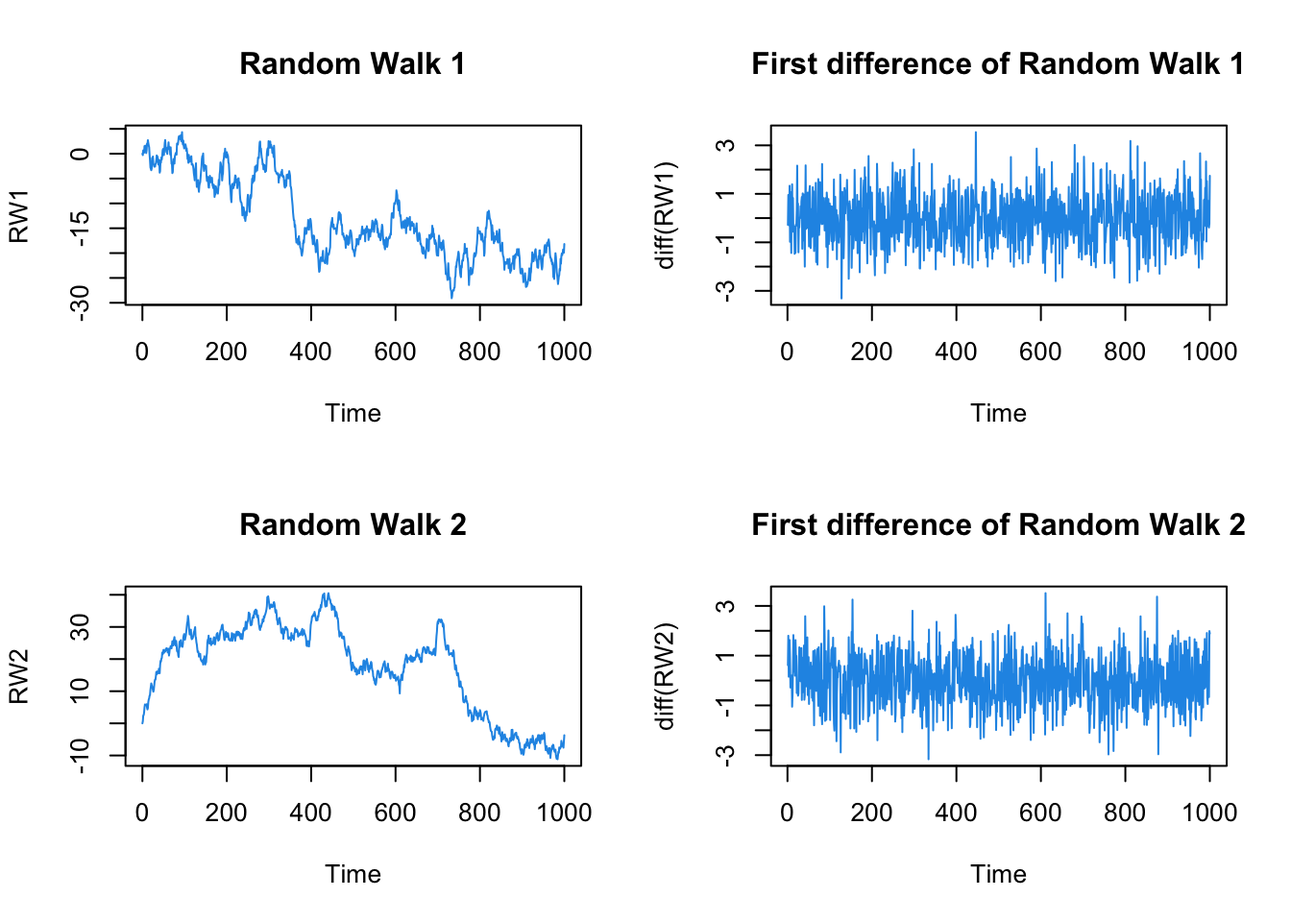
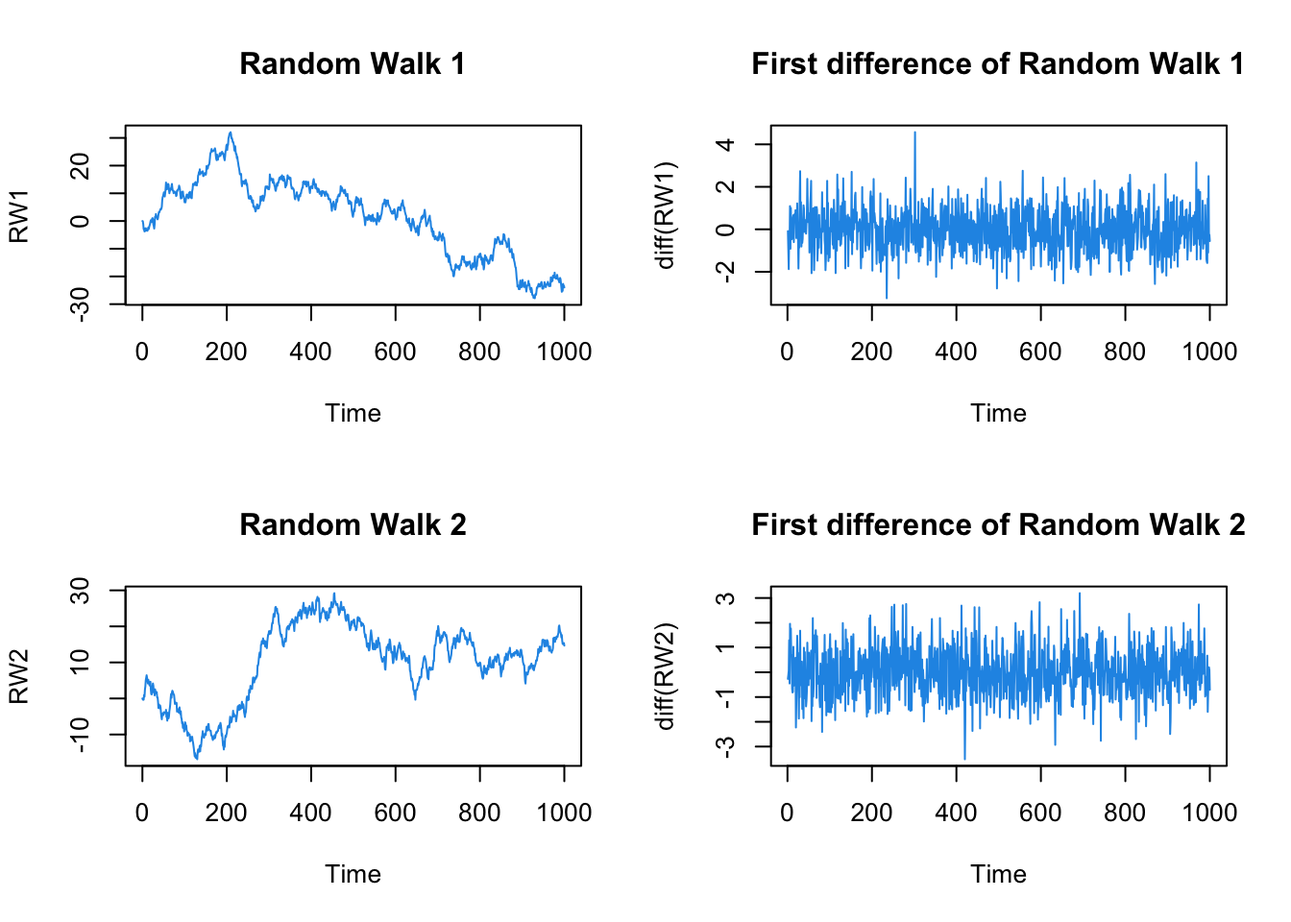
almost there commit

diff --git a/docs/index.html b/docs/index.html
@@ -520,16 +520,16 @@ B_0Y_t = b_0 + \sum_{i=1}^{p}B_{i}Y_{t-i}+u_t
 u_t|Y_{t-1}\sim iid(0_N,I_N)
 \end{align}\]</span></p>
 <p><span class="math inline">\(Y_t\)</span> is <span class="math inline">\(N\times1\)</span> matrix of endogenous variables,N represents the number of endogeneous variables and p is the number of lags. <span class="math inline">\(B_0\)</span> is <span class="math inline">\(N\times N\)</span> matrix capturing contemporaneous relationships between variables, and <span class="math inline">\(u_t\)</span> is <span class="math inline">\(N\times1\)</span> vector conditionally on <span class="math inline">\(Y_{t-1}\)</span> orthogonal structural shocks.</p>
-<p>In particular, in this model, <span class="math inline">\(Y_t\)</span> contains seven variables ordered as : (1) real per-capita GDP (<span class="math inline">\(G_t\)</span>), (2) real per-capita government expenditure (<span class="math inline">\(E_t\)</span>), (3) real per-capita government revenue (<span class="math inline">\(R_t\)</span>), (4) real per-capita public debt (<span class="math inline">\(D_t\)</span>), (5) inflation (<span class="math inline">\(i_t\)</span>), (6) cash rate target (<span class="math inline">\(r_t\)</span>), (7) real stock price (<span class="math inline">\(S_t\)</span>).</p>
+<p>In particular, in this model, <span class="math inline">\(Y_t\)</span> contains seven variables ordered as : (1) real per-capita GDP (<span class="math inline">\(GDP_t\)</span>), (2) real per-capita government expenditure (<span class="math inline">\(Expenditure_t\)</span>), (3) real per-capita government revenue (<span class="math inline">\(Revenue_t\)</span>), (4) real per-capita public debt (<span class="math inline">\(Debt_t\)</span>), (5) inflation (<span class="math inline">\(Inflation_t\)</span>), (6) cash rate target (<span class="math inline">\(Interest_t\)</span>), (7) real stock price (<span class="math inline">\(Stock_t\)</span>).</p>
 <p><span class="math display">\[\begin{align}
 Y_t=\begin{pmatrix}
-\\ G_t
-\\ E_t
-\\ R_t
-\\ D_t
-\\ i_t
-\\ r_t
-\\ S_t
+\\ GDP_t
+\\ Expenditure_t
+\\ Revenue_t
+\\ Debt_t
+\\ Inflation_t
+\\ Interest_t
+\\ Stock_t
 \end{pmatrix}
 \end{align}\]</span></p>
 <p>The reduced form representation is: <span class="math display">\[\begin{align*}
@@ -598,9 +598,6 @@ p(A,\Sigma|Y,X) \propto det{(\Sigma)}^{-\frac{T+N+K+ \underline{\nu}
 
 </div>
 <div class="cell">
-
-</div>
-<div class="cell">
 <div class="sourceCode cell-code" id="cb2"><pre class="sourceCode r code-with-copy"><code class="sourceCode r"><span id="cb2-1"><a href="#cb2-1" aria-hidden="true" tabindex="-1"></a>GetPoesterior.parameters <span class="ot">&lt;-</span> <span class="cf">function</span> (X,Y,A.prior,nu.prior,S.prior,V.prior) {</span>
 <span id="cb2-2"><a href="#cb2-2" aria-hidden="true" tabindex="-1"></a>  </span>
 <span id="cb2-3"><a href="#cb2-3" aria-hidden="true" tabindex="-1"></a>  V.bar.inv <span class="ot">&lt;-</span> <span class="fu">t</span>(X)<span class="sc">%*%</span>X <span class="sc">+</span> <span class="fu">diag</span>(<span class="dv">1</span><span class="sc">/</span><span class="fu">diag</span>(V.prior))</span>
@@ -615,7 +612,7 @@ p(A,\Sigma|Y,X) \propto det{(\Sigma)}^{-\frac{T+N+K+ \underline{\nu}
 <span id="cb2-12"><a href="#cb2-12" aria-hidden="true" tabindex="-1"></a>               <span class="at">S.bar =</span> S.bar))</span>
 <span id="cb2-13"><a href="#cb2-13" aria-hidden="true" tabindex="-1"></a>}</span></code><button title="Copy to Clipboard" class="code-copy-button"><i class="bi"></i></button></pre></div>
 </div>
-<p>Then posterior distributions can be drawn:</p>
+<p>Then posterior distributions of <span class="math inline">\(A\)</span> and <span class="math inline">\(\Sigma\)</span> can be drawn:</p>
 <div class="cell">
 <div class="sourceCode cell-code" id="cb3"><pre class="sourceCode r code-with-copy"><code class="sourceCode r"><span id="cb3-1"><a href="#cb3-1" aria-hidden="true" tabindex="-1"></a>DrawPosterior <span class="ot">&lt;-</span> <span class="cf">function</span> (N,S,p,nu.bar,S.bar,A.bar,V.bar){</span>
 <span id="cb3-2"><a href="#cb3-2" aria-hidden="true" tabindex="-1"></a>  Sigma.posterior   <span class="ot">=</span> <span class="fu">rWishart</span>(S, <span class="at">df=</span>nu.bar, <span class="at">Sigma=</span><span class="fu">solve</span>(S.bar))  </span>
@@ -640,7 +637,8 @@ p(A,\Sigma|Y,X) \propto det{(\Sigma)}^{-\frac{T+N+K+ \underline{\nu}
 <span id="cb3-21"><a href="#cb3-21" aria-hidden="true" tabindex="-1"></a>         )</span>
 <span id="cb3-22"><a href="#cb3-22" aria-hidden="true" tabindex="-1"></a>}</span></code><button title="Copy to Clipboard" class="code-copy-button"><i class="bi"></i></button></pre></div>
 </div>
-<p>After the posterior draws,we apply sign restrictions to</p>
+<p>After the posterior draws, we apply sign restrictions to identify the model. For any set of sign restrictions, given a parameter point <span class="math inline">\(B_{+},B_{0}\)</span> that satisfies such restrictions, there always exists an orthogonal matrix Q, arbitrarily close to an identity such that <span class="math inline">\(QB_{+},QB_{0}\)</span> satisfy the sign restrictions.</p>
+<p>The Algorithm from Fry, Pagan (2011) is implemented to transfer SF parameters <span class="math inline">\((\tilde{B_+},\tilde{B_0})\)</span> to parameters <span class="math inline">\((B_{+},B_{0})\)</span> such the restrictions of interest holds.</p>
 <div class="cell">
 <div class="sourceCode cell-code" id="cb4"><pre class="sourceCode r code-with-copy"><code class="sourceCode r"><span id="cb4-1"><a href="#cb4-1" aria-hidden="true" tabindex="-1"></a>ImposeSignRestriction <span class="ot">&lt;-</span> <span class="cf">function</span> (restrictions,N,S,p,A.posterior,Sigma.posterior,B.posterior,B1.tilde.s){</span>
 <span id="cb4-2"><a href="#cb4-2" aria-hidden="true" tabindex="-1"></a>  </span>
@@ -681,15 +679,33 @@ p(A,\Sigma|Y,X) \propto det{(\Sigma)}^{-\frac{T+N+K+ \underline{\nu}
 </section>
 <section id="extented-model" class="level2">
 <h2 class="anchored" data-anchor-id="extented-model">Extented Model</h2>
-<p>In the extended model, instead of setting <span class="math inline">\(\kappa_1\)</span> and <span class="math inline">\(\kappa_2\)</span> as fixed values, we can assume <span class="math inline">\(\kappa_1\)</span> is from an inverse gamma 2 distribution as</p>
-<p><span class="math display">\[\begin{align}
-\kappa \sim IG2(\underline{S}_ \kappa,\underline{\nu}_ \kappa)
-\end{align}\]</span></p>
-<p><span class="math inline">\(\kappa_2\)</span> can be set as <span class="math inline">\(100 \times \kappa_1\)</span>.</p>
-<div class="cell">
-
-</div>
-<p>Construction of Gibbs Sampler Algorithm:</p>
+<p>In the extended model,instead of setting <span class="math inline">\(\kappa_1\)</span> and <span class="math inline">\(\kappa_2\)</span> as fixed values, the overall shrinkage level for auto-regressive slopes <span class="math inline">\(\kappa_1\)</span> is assumed to follow an inverse gamma 2 distribution <span class="math inline">\(IG2(\underline{S}_{\kappa},\underline{\nu}_{\kappa})\)</span>, and shrinkage of constant term <span class="math inline">\(\kappa_2\)</span> can be set as <span class="math inline">\(100 \times \kappa_1\)</span>.</p>
+<p>Under this setting, <span class="math display">\[\begin{gather}
+p(\kappa|A,\Sigma,Y,X) \\
+\\ p(A,\Sigma|X,Y,\kappa)
+\end{gather}\]</span></p>
+<p>The full conditional posterior of <span class="math inline">\((A,\Sigma)\)</span> is: <span class="math display">\[\begin{gather}
+p(A,\Sigma|X,Y,\kappa) \propto L(A,\Sigma|Y,X) \times p(A|\Sigma,\kappa) \times p(\Sigma) \\
+\\ \propto det(\Sigma)^{-\frac{K}{2}} exp \left\{-\frac{1}{2}tr \left[ \Sigma^{-1}(Y-XA)^{'}(Y-XA)\right] \right\} \\
+\\ \times exp \left\{ -\frac{1}{2} tr \left[ \Sigma^{-1}(A-\underline{A})^{'}(\kappa \underline{V})^{-1}(A-\underline{A}) \right] \right\} \\
+\\ \times det(\Sigma)^{\frac{\underline{\nu}+N+1}{2}} exp\left\{-\frac{1}{2} tr \left[\Sigma^{-1}\underline{S} \right] \right\}
+\end{gather}\]</span></p>
+<p>We recognize kernel of matrix-normal inverse Wharst distribution, with parameters as follows: <span class="math display">\[\begin{gather}
+\bar{V} = (X'X+(\kappa \underline{V}))^{-1} \\
+\\ \bar{A} = \bar{V}(X'Y+(\kappa \underline{V}^{-1}\underline{A})) \\ \\ \bar{S} = \underline{S}+Y'Y+A'(\kappa \underline{V})^{-1} - \bar{A}^{'} \bar{V}^{-1}\bar{A} \\
+\\ \bar{\nu} = T + \underline{\nu}
+\end{gather}\]</span></p>
+<p>The full-conditional posterior of <span class="math inline">\(\kappa\)</span> is: <span class="math display">\[\begin{gather}
+p(\kappa | A,\Sigma, Y,X) \propto L(Y|X,A,\Sigma) \times p(\kappa) \times p(A|\Sigma,\kappa) \times p(\Sigma) \\
+\\ \propto p(\kappa) \times p(A|\Sigma,\kappa) \\
+\\ \propto (\kappa)^{-\frac{\underline{\nu}_{\kappa}+2}{2}}
+exp\left\{ -\frac{1}{2} \frac{\underline{S}_{\kappa}}{\kappa} \right\}  \times exp\left\{-\frac{1}{2}tr\left[\Sigma^{-1}(A-\underline{A})^{'} \frac{1}{\kappa}(\underline{V})^{-1} (A-\underline{A})\right]\right\} \times det(\kappa \underline{V})^{-\frac{N}{2}} \\
+\\ \propto (\kappa)^{-\frac{\underline{\nu}_{\kappa}+2+NK}{2}} exp \left\{-\frac{1}{2} \frac{1}{\kappa} \left[\underline{S}_{\kappa} + tr \left[\Sigma^{-1}(A-\underline{A})^{'}\underline{V}^{-1}(A-\underline{A}) \right]\right] \right\}
+\end{gather}\]</span> which we recognise the kernel of inverse gamma 2 distribution with <span class="math display">\[\begin{gather}
+\bar{S}_{\kappa} = \underline{S}_{\kappa}+tr \left[ \Sigma^{-1} (A-\underline{A})^{'} \underline{V}^{-1} (A-\underline{A})\right] \\
+\\ \bar{\nu}_{\kappa} = \underline{\nu}_{\kappa}+NK
+\end{gather}\]</span></p>
+<p>Gibbs Sampler can be conducted to get the posterior draws of the extended model, for which we can,</p>
 <p>Initialize <span class="math inline">\(\kappa\)</span> at <span class="math inline">\(\kappa^{(0)}\)</span>.</p>
 <p>At each iteration s:</p>
 <ol type="1">
@@ -699,24 +715,70 @@ p(A,\Sigma|Y,X) \propto det{(\Sigma)}^{-\frac{T+N+K+ \underline{\nu}
 <p>Repeat 1 and 2 for <span class="math inline">\((S_1 + S_2)\)</span> times.</p>
 <p>Discard the first <span class="math inline">\(S_1\)</span>.</p>
 <div class="cell">
-
+<div class="sourceCode cell-code" id="cb5"><pre class="sourceCode r code-with-copy"><code class="sourceCode r"><span id="cb5-1"><a href="#cb5-1" aria-hidden="true" tabindex="-1"></a>DrawPosterior.e <span class="ot">&lt;-</span> <span class="cf">function</span> (Y,X,nu.prior,A.prior,V.prior,S.prior,nu.kappa,S.kappa,S1,S2){</span>
+<span id="cb5-2"><a href="#cb5-2" aria-hidden="true" tabindex="-1"></a>  </span>
+<span id="cb5-3"><a href="#cb5-3" aria-hidden="true" tabindex="-1"></a>  N <span class="ot">=</span> <span class="fu">ncol</span>(Y)</span>
+<span id="cb5-4"><a href="#cb5-4" aria-hidden="true" tabindex="-1"></a>  K <span class="ot">=</span> <span class="fu">ncol</span>(X)</span>
+<span id="cb5-5"><a href="#cb5-5" aria-hidden="true" tabindex="-1"></a>  T <span class="ot">=</span> <span class="fu">nrow</span>(Y)</span>
+<span id="cb5-6"><a href="#cb5-6" aria-hidden="true" tabindex="-1"></a>  kappa           <span class="ot">&lt;-</span> <span class="fu">c</span>()</span>
+<span id="cb5-7"><a href="#cb5-7" aria-hidden="true" tabindex="-1"></a>  A.posterior     <span class="ot">&lt;-</span> <span class="fu">array</span>(<span class="cn">NA</span>,<span class="fu">c</span>(K,N,(S1<span class="sc">+</span>S2)))</span>
+<span id="cb5-8"><a href="#cb5-8" aria-hidden="true" tabindex="-1"></a>  Sigma.posterior <span class="ot">&lt;-</span> <span class="fu">array</span>(<span class="cn">NA</span>,<span class="fu">c</span>(N,N,(S1<span class="sc">+</span>S2))) </span>
+<span id="cb5-9"><a href="#cb5-9" aria-hidden="true" tabindex="-1"></a>  B.posterior     <span class="ot">&lt;-</span> <span class="fu">array</span>(<span class="cn">NA</span>,<span class="fu">c</span>(N,N,(S1<span class="sc">+</span>S2)))</span>
+<span id="cb5-10"><a href="#cb5-10" aria-hidden="true" tabindex="-1"></a>  B1.tilde.s      <span class="ot">&lt;-</span> <span class="fu">array</span>(<span class="cn">NA</span>,<span class="fu">c</span>(N,K,(S1<span class="sc">+</span>S2)))</span>
+<span id="cb5-11"><a href="#cb5-11" aria-hidden="true" tabindex="-1"></a>  </span>
+<span id="cb5-12"><a href="#cb5-12" aria-hidden="true" tabindex="-1"></a>  <span class="co"># Initialize kappa.0 </span></span>
+<span id="cb5-13"><a href="#cb5-13" aria-hidden="true" tabindex="-1"></a>  kappa[<span class="dv">1</span>] <span class="ot">&lt;-</span> <span class="dv">1</span> </span>
+<span id="cb5-14"><a href="#cb5-14" aria-hidden="true" tabindex="-1"></a>  </span>
+<span id="cb5-15"><a href="#cb5-15" aria-hidden="true" tabindex="-1"></a>  nu.bar <span class="ot">&lt;-</span> nu.prior <span class="sc">+</span> T </span>
+<span id="cb5-16"><a href="#cb5-16" aria-hidden="true" tabindex="-1"></a>  nu.kappa.bar <span class="ot">&lt;-</span> nu.kappa <span class="sc">+</span> N<span class="sc">*</span>K <span class="co"># N*K </span></span>
+<span id="cb5-17"><a href="#cb5-17" aria-hidden="true" tabindex="-1"></a> </span>
+<span id="cb5-18"><a href="#cb5-18" aria-hidden="true" tabindex="-1"></a>  <span class="cf">for</span> (s <span class="cf">in</span> <span class="dv">1</span><span class="sc">:</span>(S1<span class="sc">+</span>S2)){</span>
+<span id="cb5-19"><a href="#cb5-19" aria-hidden="true" tabindex="-1"></a>    <span class="co"># STEP 1: draw (A Sigma).s from MNIW(A.bar,V.bar,S.bar,nu.bar)</span></span>
+<span id="cb5-20"><a href="#cb5-20" aria-hidden="true" tabindex="-1"></a>    V.bar.inv <span class="ot">&lt;-</span> <span class="fu">t</span>(X)<span class="sc">%*%</span>X <span class="sc">+</span> <span class="fu">solve</span>(kappa[s]<span class="sc">*</span>V.prior)</span>
+<span id="cb5-21"><a href="#cb5-21" aria-hidden="true" tabindex="-1"></a>    V.bar     <span class="ot">&lt;-</span> <span class="fu">solve</span>(V.bar.inv)</span>
+<span id="cb5-22"><a href="#cb5-22" aria-hidden="true" tabindex="-1"></a>    </span>
+<span id="cb5-23"><a href="#cb5-23" aria-hidden="true" tabindex="-1"></a>    A.bar     <span class="ot">&lt;-</span> V.bar<span class="sc">%*%</span>(<span class="fu">t</span>(X)<span class="sc">%*%</span>Y <span class="sc">+</span> <span class="fu">diag</span>(<span class="dv">1</span><span class="sc">/</span><span class="fu">diag</span>(kappa[s]<span class="sc">*</span>V.prior))<span class="sc">%*%</span>A.prior)</span>
+<span id="cb5-24"><a href="#cb5-24" aria-hidden="true" tabindex="-1"></a>    S.bar     <span class="ot">&lt;-</span> S.prior <span class="sc">+</span> <span class="fu">t</span>(Y)<span class="sc">%*%</span>Y <span class="sc">+</span> <span class="fu">t</span>(A.prior)<span class="sc">%*%</span><span class="fu">diag</span>(<span class="dv">1</span><span class="sc">/</span><span class="fu">diag</span>(kappa[s]<span class="sc">*</span>V.prior))<span class="sc">%*%</span>A.prior <span class="sc">-</span> <span class="fu">t</span>(A.bar)<span class="sc">%*%</span>V.bar.inv<span class="sc">%*%</span>A.bar</span>
+<span id="cb5-25"><a href="#cb5-25" aria-hidden="true" tabindex="-1"></a>              </span>
+<span id="cb5-26"><a href="#cb5-26" aria-hidden="true" tabindex="-1"></a>    draw.sigma.inv <span class="ot">=</span> <span class="fu">solve</span>(<span class="fu">rWishart</span>(<span class="dv">1</span>, <span class="at">df=</span>nu.bar, <span class="at">Sigma=</span><span class="fu">solve</span>(S.bar))[,,<span class="dv">1</span>])</span>
+<span id="cb5-27"><a href="#cb5-27" aria-hidden="true" tabindex="-1"></a>    Sigma.posterior[,,s] <span class="ot">=</span> draw.sigma.inv</span>
+<span id="cb5-28"><a href="#cb5-28" aria-hidden="true" tabindex="-1"></a>    </span>
+<span id="cb5-29"><a href="#cb5-29" aria-hidden="true" tabindex="-1"></a>    cholSigma.s            <span class="ot">=</span> <span class="fu">chol</span>(Sigma.posterior[,,s])</span>
+<span id="cb5-30"><a href="#cb5-30" aria-hidden="true" tabindex="-1"></a>    A.posterior[,,s]       <span class="ot">=</span> <span class="fu">matrix</span>(MASS<span class="sc">::</span><span class="fu">mvrnorm</span>(<span class="dv">1</span>,<span class="fu">as.vector</span>(A.bar),Sigma.posterior[,,s]<span class="sc">%x%</span>V.bar),<span class="at">ncol=</span>N)      </span>
+<span id="cb5-31"><a href="#cb5-31" aria-hidden="true" tabindex="-1"></a>    </span>
+<span id="cb5-32"><a href="#cb5-32" aria-hidden="true" tabindex="-1"></a>    L                <span class="ot">&lt;-</span> <span class="fu">t</span>(<span class="fu">chol</span>(V.bar))</span>
+<span id="cb5-33"><a href="#cb5-33" aria-hidden="true" tabindex="-1"></a>    B.posterior[,,s] <span class="ot">&lt;-</span> <span class="fu">t</span>(<span class="fu">chol</span>(Sigma.posterior[,,s])) </span>
+<span id="cb5-34"><a href="#cb5-34" aria-hidden="true" tabindex="-1"></a>    B1.tilde.s[,,s]  <span class="ot">&lt;-</span> B.posterior[,,s]<span class="sc">%*%</span><span class="fu">t</span>(A.posterior[,,s])</span>
+<span id="cb5-35"><a href="#cb5-35" aria-hidden="true" tabindex="-1"></a>    </span>
+<span id="cb5-36"><a href="#cb5-36" aria-hidden="true" tabindex="-1"></a>    <span class="co"># STEP 2: draw kappa.s from IG2(S.bar, nu.bar)</span></span>
+<span id="cb5-37"><a href="#cb5-37" aria-hidden="true" tabindex="-1"></a>    S.kappa.bar <span class="ot">&lt;-</span> S.kappa <span class="sc">+</span> <span class="fu">sum</span>(<span class="fu">diag</span>( draw.sigma.inv <span class="sc">%*%</span> <span class="fu">t</span>(A.posterior[,,s]<span class="sc">-</span>A.prior)<span class="sc">%*%</span> <span class="fu">diag</span>(<span class="dv">1</span><span class="sc">/</span><span class="fu">diag</span>(V.prior)) <span class="sc">%*%</span> (A.posterior[,,s]<span class="sc">-</span>A.prior)))</span>
+<span id="cb5-38"><a href="#cb5-38" aria-hidden="true" tabindex="-1"></a>    kappa[s<span class="sc">+</span><span class="dv">1</span>]  <span class="ot">&lt;-</span> S.kappa.bar <span class="sc">/</span> <span class="fu">rchisq</span>(<span class="dv">1</span>, <span class="at">df=</span>nu.kappa.bar)</span>
+<span id="cb5-39"><a href="#cb5-39" aria-hidden="true" tabindex="-1"></a>  }   </span>
+<span id="cb5-40"><a href="#cb5-40" aria-hidden="true" tabindex="-1"></a>  </span>
+<span id="cb5-41"><a href="#cb5-41" aria-hidden="true" tabindex="-1"></a>  <span class="fu">return</span>(<span class="fu">list</span>(<span class="at">Sigma.posterior.e =</span> Sigma.posterior[,,(S1<span class="sc">+</span><span class="dv">1</span>)<span class="sc">:</span>(S1<span class="sc">+</span>S2)],</span>
+<span id="cb5-42"><a href="#cb5-42" aria-hidden="true" tabindex="-1"></a>              <span class="at">A.posterior.e =</span> A.posterior[,,(S1<span class="sc">+</span><span class="dv">1</span>)<span class="sc">:</span>(S1<span class="sc">+</span>S2)],</span>
+<span id="cb5-43"><a href="#cb5-43" aria-hidden="true" tabindex="-1"></a>              <span class="at">B1.tilde.s.e =</span> B1.tilde.s[,,(S1<span class="sc">+</span><span class="dv">1</span>)<span class="sc">:</span>(S1<span class="sc">+</span>S2)],</span>
+<span id="cb5-44"><a href="#cb5-44" aria-hidden="true" tabindex="-1"></a>              <span class="at">B.posterior.e =</span> B.posterior[,,(S1<span class="sc">+</span><span class="dv">1</span>)<span class="sc">:</span>(S1<span class="sc">+</span>S2)],</span>
+<span id="cb5-45"><a href="#cb5-45" aria-hidden="true" tabindex="-1"></a>              <span class="at">kappa.e =</span> kappa[(S1<span class="sc">+</span><span class="dv">1</span>)<span class="sc">:</span>(S1<span class="sc">+</span>S2)]))</span>
+<span id="cb5-46"><a href="#cb5-46" aria-hidden="true" tabindex="-1"></a>}</span></code><button title="Copy to Clipboard" class="code-copy-button"><i class="bi"></i></button></pre></div>
 </div>
+<p>The sign restrictions would be implied in the same way as the basic model.</p>
 </section>
 <section id="artificial-data-check" class="level2">
 <h2 class="anchored" data-anchor-id="artificial-data-check">Artificial Data Check</h2>
-<p>1000 observations of bi-variate Gaussian random walk processes with the covariance matrix equal to the identity matrix of order 2 are generated as <a href="#fig-actificial-data">Figure&nbsp;5</a> to test the model framework.</p>
+<p>1000 observations of bi-variate Gaussian random walk processes with the covariance matrix equal to the identity matrix of order 2 are generated as <a href="#fig-actificial-data">Figure&nbsp;5</a> to test whether the modeling frameworks are able to estimate true parameters of the data generating process.</p>
 <div class="cell">
-<div class="sourceCode cell-code" id="cb5"><pre class="sourceCode r code-with-copy"><code class="sourceCode r"><span id="cb5-1"><a href="#cb5-1" aria-hidden="true" tabindex="-1"></a><span class="fu">par</span>(<span class="at">mfrow=</span><span class="fu">c</span>(<span class="dv">2</span>,<span class="dv">2</span>))</span>
-<span id="cb5-2"><a href="#cb5-2" aria-hidden="true" tabindex="-1"></a><span class="fu">set.seed</span>(<span class="dv">90007</span>)</span>
-<span id="cb5-3"><a href="#cb5-3" aria-hidden="true" tabindex="-1"></a>RW1 <span class="ot">&lt;-</span> <span class="fu">arima.sim</span>(<span class="at">model=</span> <span class="fu">list</span>(<span class="at">order =</span> <span class="fu">c</span>(<span class="dv">0</span>, <span class="dv">1</span>, <span class="dv">0</span>)), <span class="at">n=</span><span class="dv">1000</span>, <span class="at">mean=</span><span class="dv">0</span>, <span class="at">sd=</span><span class="dv">1</span>)</span>
-<span id="cb5-4"><a href="#cb5-4" aria-hidden="true" tabindex="-1"></a><span class="fu">plot.ts</span>(RW1,<span class="at">main=</span><span class="st">"Random Walk 1"</span>, <span class="at">col=</span><span class="dv">4</span>)</span>
-<span id="cb5-5"><a href="#cb5-5" aria-hidden="true" tabindex="-1"></a><span class="fu">plot.ts</span>(<span class="fu">diff</span>(RW1),<span class="at">main=</span><span class="st">"First difference of Random Walk 1"</span>, <span class="at">col=</span><span class="dv">4</span>)</span>
-<span id="cb5-6"><a href="#cb5-6" aria-hidden="true" tabindex="-1"></a></span>
-<span id="cb5-7"><a href="#cb5-7" aria-hidden="true" tabindex="-1"></a>RW2 <span class="ot">&lt;-</span> <span class="fu">arima.sim</span>(<span class="at">model=</span> <span class="fu">list</span>(<span class="at">order =</span> <span class="fu">c</span>(<span class="dv">0</span>, <span class="dv">1</span>, <span class="dv">0</span>)), <span class="at">n=</span><span class="dv">1000</span>, <span class="at">mean=</span><span class="dv">0</span>, <span class="at">sd=</span><span class="dv">1</span>)</span>
-<span id="cb5-8"><a href="#cb5-8" aria-hidden="true" tabindex="-1"></a><span class="fu">plot.ts</span>(RW2,<span class="at">main=</span><span class="st">"Random Walk 2"</span>, <span class="at">col=</span><span class="dv">4</span>)</span>
-<span id="cb5-9"><a href="#cb5-9" aria-hidden="true" tabindex="-1"></a><span class="fu">plot.ts</span>(<span class="fu">diff</span>(RW2),<span class="at">main=</span><span class="st">"First difference of Random Walk 2"</span>, <span class="at">col=</span><span class="dv">4</span>)</span>
-<span id="cb5-10"><a href="#cb5-10" aria-hidden="true" tabindex="-1"></a></span>
-<span id="cb5-11"><a href="#cb5-11" aria-hidden="true" tabindex="-1"></a>RW  <span class="ot">&lt;-</span> <span class="fu">cbind</span>(RW1,RW2)</span></code><button title="Copy to Clipboard" class="code-copy-button"><i class="bi"></i></button></pre></div>
+<div class="sourceCode cell-code" id="cb6"><pre class="sourceCode r code-with-copy"><code class="sourceCode r"><span id="cb6-1"><a href="#cb6-1" aria-hidden="true" tabindex="-1"></a><span class="fu">par</span>(<span class="at">mfrow=</span><span class="fu">c</span>(<span class="dv">2</span>,<span class="dv">2</span>))</span>
+<span id="cb6-2"><a href="#cb6-2" aria-hidden="true" tabindex="-1"></a><span class="fu">set.seed</span>(<span class="dv">2023</span>)</span>
+<span id="cb6-3"><a href="#cb6-3" aria-hidden="true" tabindex="-1"></a>RW1 <span class="ot">&lt;-</span> <span class="fu">arima.sim</span>(<span class="at">model=</span> <span class="fu">list</span>(<span class="at">order =</span> <span class="fu">c</span>(<span class="dv">0</span>, <span class="dv">1</span>, <span class="dv">0</span>)), <span class="at">n=</span><span class="dv">1000</span>, <span class="at">mean=</span><span class="dv">0</span>, <span class="at">sd=</span><span class="dv">1</span>)</span>
+<span id="cb6-4"><a href="#cb6-4" aria-hidden="true" tabindex="-1"></a><span class="fu">plot.ts</span>(RW1,<span class="at">main=</span><span class="st">"Random Walk 1"</span>, <span class="at">col=</span><span class="dv">4</span>)</span>
+<span id="cb6-5"><a href="#cb6-5" aria-hidden="true" tabindex="-1"></a><span class="fu">plot.ts</span>(<span class="fu">diff</span>(RW1),<span class="at">main=</span><span class="st">"First difference of Random Walk 1"</span>, <span class="at">col=</span><span class="dv">4</span>)</span>
+<span id="cb6-6"><a href="#cb6-6" aria-hidden="true" tabindex="-1"></a></span>
+<span id="cb6-7"><a href="#cb6-7" aria-hidden="true" tabindex="-1"></a>RW2 <span class="ot">&lt;-</span> <span class="fu">arima.sim</span>(<span class="at">model=</span> <span class="fu">list</span>(<span class="at">order =</span> <span class="fu">c</span>(<span class="dv">0</span>, <span class="dv">1</span>, <span class="dv">0</span>)), <span class="at">n=</span><span class="dv">1000</span>, <span class="at">mean=</span><span class="dv">0</span>, <span class="at">sd=</span><span class="dv">1</span>)</span>
+<span id="cb6-8"><a href="#cb6-8" aria-hidden="true" tabindex="-1"></a><span class="fu">plot.ts</span>(RW2,<span class="at">main=</span><span class="st">"Random Walk 2"</span>, <span class="at">col=</span><span class="dv">4</span>)</span>
+<span id="cb6-9"><a href="#cb6-9" aria-hidden="true" tabindex="-1"></a><span class="fu">plot.ts</span>(<span class="fu">diff</span>(RW2),<span class="at">main=</span><span class="st">"First difference of Random Walk 2"</span>, <span class="at">col=</span><span class="dv">4</span>)</span>
+<span id="cb6-10"><a href="#cb6-10" aria-hidden="true" tabindex="-1"></a></span>
+<span id="cb6-11"><a href="#cb6-11" aria-hidden="true" tabindex="-1"></a>RW  <span class="ot">&lt;-</span> <span class="fu">cbind</span>(RW1,RW2)</span></code><button title="Copy to Clipboard" class="code-copy-button"><i class="bi"></i></button></pre></div>
 <div class="cell-output-display">
 <div id="fig-actificial-data" class="quarto-figure quarto-figure-center anchored">
 <figure class="figure">
@@ -746,7 +808,7 @@ p(A,\Sigma|Y,X) \propto det{(\Sigma)}^{-\frac{T+N+K+ \underline{\nu}
 <div class="cell">
 
 </div>
-<p><a href="#tbl-Acheck">Table&nbsp;5</a> Shows the rotation matrix</p>
+<p><a href="#tbl-Acheck">Table&nbsp;5</a> and <a href="#tbl-Scheck">Table&nbsp;6</a> show the matrix of <span class="math inline">\(A\)</span> and <span class="math inline">\(\Sigma\)</span>, suggesting the basic model estimation using artificial data of 1 lag and constant term is showing zero posterior mean of the autoregressive and covariance matrices are close to an identity matrix and the posterior mean of the constant term is close to zeros too.</p>
 <div class="cell">
 <div class="cell-output-display">
 <div id="tbl-Acheck" class="anchored">
@@ -760,23 +822,22 @@ p(A,\Sigma|Y,X) \propto det{(\Sigma)}^{-\frac{T+N+K+ \underline{\nu}
 </thead>
 <tbody>
 <tr class="odd">
-<td style="text-align: right;">-0.1984</td>
-<td style="text-align: right;">0.2363</td>
+<td style="text-align: right;">0.0252</td>
+<td style="text-align: right;">0.0522</td>
 </tr>
 <tr class="even">
-<td style="text-align: right;">1.0295</td>
-<td style="text-align: right;">0.0239</td>
+<td style="text-align: right;">1.0162</td>
+<td style="text-align: right;">-0.0008</td>
 </tr>
 <tr class="odd">
-<td style="text-align: right;">0.0154</td>
-<td style="text-align: right;">1.0235</td>
+<td style="text-align: right;">-0.0060</td>
+<td style="text-align: right;">0.9402</td>
 </tr>
 </tbody>
 </table>
 </div>
 </div>
 </div>
-<p><a href="#tbl-Scheck">Table&nbsp;6</a></p>
 <div class="cell">
 <div class="cell-output-display">
 <div id="tbl-Scheck" class="anchored">
@@ -790,12 +851,12 @@ p(A,\Sigma|Y,X) \propto det{(\Sigma)}^{-\frac{T+N+K+ \underline{\nu}
 </thead>
 <tbody>
 <tr class="odd">
-<td style="text-align: right;">1.0267</td>
-<td style="text-align: right;">-0.0004</td>
+<td style="text-align: right;">0.9821</td>
+<td style="text-align: right;">-0.0002</td>
 </tr>
 <tr class="even">
-<td style="text-align: right;">-0.0004</td>
-<td style="text-align: right;">1.0426</td>
+<td style="text-align: right;">-0.0002</td>
+<td style="text-align: right;">0.9802</td>
 </tr>
 </tbody>
 </table>
@@ -805,6 +866,7 @@ p(A,\Sigma|Y,X) \propto det{(\Sigma)}^{-\frac{T+N+K+ \underline{\nu}
 </section>
 <section id="extended-model" class="level3">
 <h3 class="anchored" data-anchor-id="extended-model">Extended Model</h3>
+<p>Then we can use the same data to check whether the extension model is working.</p>
 <div class="cell">
 
 </div>
@@ -817,7 +879,7 @@ p(A,\Sigma|Y,X) \propto det{(\Sigma)}^{-\frac{T+N+K+ \underline{\nu}
 <div class="cell">
 
 </div>
-<p><a href="#tbl-Acheck2">Table&nbsp;7</a></p>
+<p><a href="#tbl-Acheck2">Table&nbsp;7</a> and <a href="#tbl-Scheck2">Table&nbsp;8</a> also shows desired results, suggesting the extented model is also working.</p>
 <div class="cell">
 <div class="cell-output-display">
 <div id="tbl-Acheck2" class="anchored">
@@ -825,23 +887,22 @@ p(A,\Sigma|Y,X) \propto det{(\Sigma)}^{-\frac{T+N+K+ \underline{\nu}
 <caption>Table&nbsp;7: Extended Model - A</caption>
 <tbody>
 <tr class="odd">
-<td style="text-align: right;">-0.0690</td>
-<td style="text-align: right;">0.0823</td>
+<td style="text-align: right;">0.0255</td>
+<td style="text-align: right;">0.0520</td>
 </tr>
 <tr class="even">
-<td style="text-align: right;">1.0379</td>
-<td style="text-align: right;">0.0150</td>
+<td style="text-align: right;">1.0160</td>
+<td style="text-align: right;">-0.0007</td>
 </tr>
 <tr class="odd">
-<td style="text-align: right;">0.0096</td>
-<td style="text-align: right;">1.0310</td>
+<td style="text-align: right;">-0.0060</td>
+<td style="text-align: right;">0.9405</td>
 </tr>
 </tbody>
 </table>
 </div>
 </div>
 </div>
-<p><a href="#tbl-Scheck2">Table&nbsp;8</a></p>
 <div class="cell">
 <div class="cell-output-display">
 <div id="tbl-Scheck2" class="anchored">
@@ -849,12 +910,12 @@ p(A,\Sigma|Y,X) \propto det{(\Sigma)}^{-\frac{T+N+K+ \underline{\nu}
 <caption>Table&nbsp;8: Extended Model - Sigma</caption>
 <tbody>
 <tr class="odd">
-<td style="text-align: right;">1.0321</td>
-<td style="text-align: right;">0.0007</td>
+<td style="text-align: right;">0.9825</td>
+<td style="text-align: right;">0.0000</td>
 </tr>
 <tr class="even">
-<td style="text-align: right;">0.0007</td>
-<td style="text-align: right;">1.0446</td>
+<td style="text-align: right;">0.0000</td>
+<td style="text-align: right;">0.9801</td>
 </tr>
 </tbody>
 </table>
@@ -866,9 +927,6 @@ p(A,\Sigma|Y,X) \propto det{(\Sigma)}^{-\frac{T+N+K+ \underline{\nu}
 </section>
 <section id="empirical-estimation" class="level1">
 <h1>Empirical Estimation</h1>
-<div class="cell">
-
-</div>
 </section>
 <section id="references" class="level1 unnumbered">
 <h1 class="unnumbered">References</h1>
